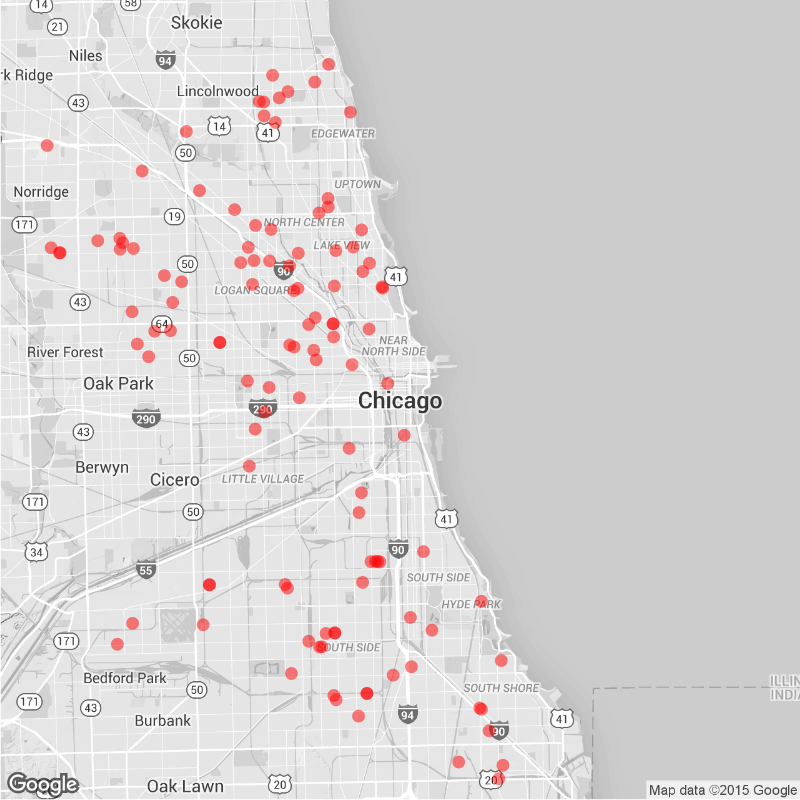
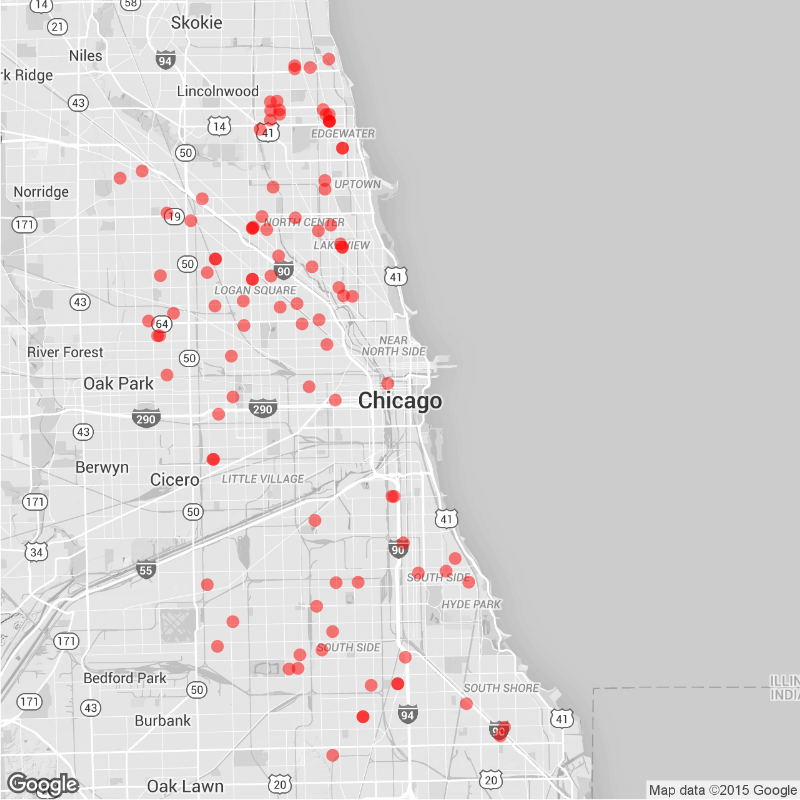
Daily Maps

diff --git a/daily.md b/daily.md
@@ -15,22 +15,22 @@ tags: Chicago NYC weekly daily rats
 
 ### Daily
 
-Yesterday (December 09), there were 115 calls to Chicago's 311 line about rats.
+Yesterday (December 10), there were 101 calls to Chicago's 311 line about rats.
 ![Chicago rat calls to 311 weekly map]({{ site.cityimages }}/daily/Chicago_Rat_Map_Daily.png)
 
 ### Weekly
-Between December 03 and December 09, there were 629 calls to Chicago's 311 line about rats. The average number of weekly calls for this time of year is 358.
+Between December 04 and December 10, there were 609 calls to Chicago's 311 line about rats. The average number of weekly calls for this time of year is 358.
 ![Chicago rat calls to 311 weekly map]({{ site.cityimages }}/daily/Chicago_Rat_Map_Weekly.png)
 ***
 # New York City <a id="nyc"><a>
 
 ### Daily
 
-Yesterday (December 09), there were 0 calls to New York City's 311 line about rats.
+Yesterday (December 10), there were 0 calls to New York City's 311 line about rats.
 ![NYC rat calls to 311 weekly map]({{ site.cityimages }}/daily/NYC_Rat_Map_Daily.png)
 
 ### Weekly
-Between December 03 and December 09, there were 0 calls to New York City's 311 line about rats. The average number of weekly calls for this time of year is 132.
+Between December 04 and December 10, there were 0 calls to New York City's 311 line about rats. The average number of weekly calls for this time of year is 132.
 ![NYC rat calls to 311 weekly map]({{ site.cityimages }}/daily/NYC_Rat_Map_Weekly.png)
 
 Each red dot represents one call about a rat seen in that location. The dots are transparent, so multiple calls from one location will be seen as a solid dot. The usual caveats apply: more calls do not necessarily mean that there are more rats in that location than other parts of the city. A cluster of dots could indicate that one resident is unusually vocal about rodents in his or her neighborhood. Also, more densely populated neighborhoods tend to make more calls to 311.
